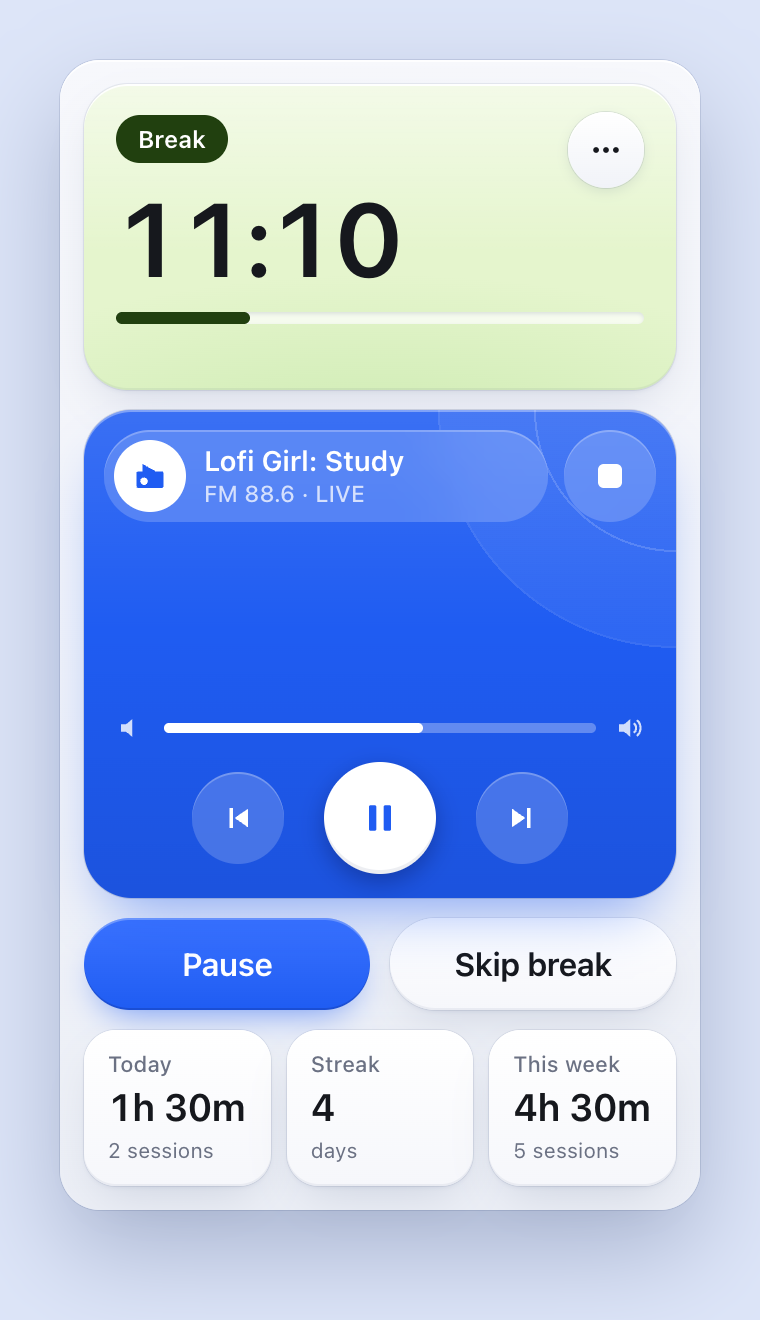
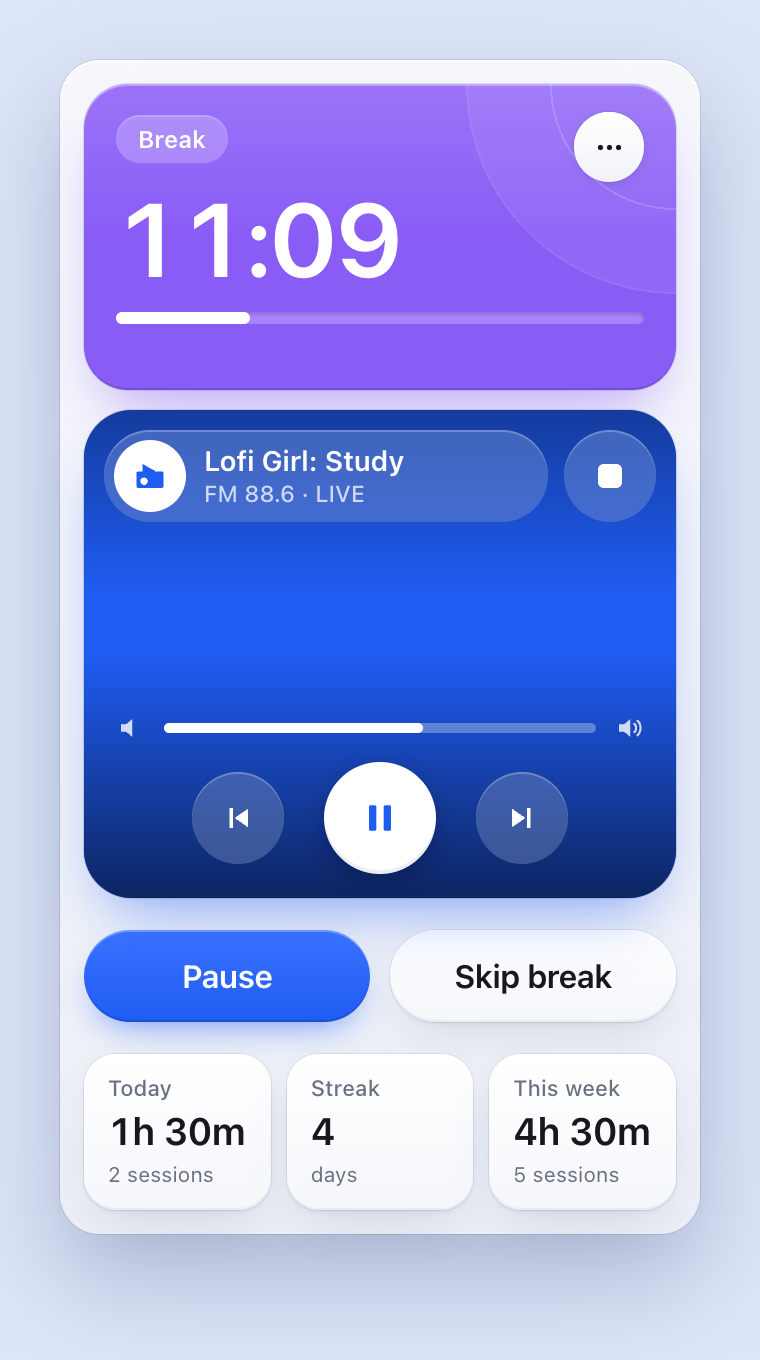
Blue ringed clock card, station cover art, theme switch in the menu
- Light mode: the clock card is bright blue (purple on a break) with the rings in its corner
- The radio card shows the station's cover art until the video plays
- Menu gets a Theme button: match the Mac, light or dark, saved by the app and applied to every window

diff --git a/src/panel.html b/src/panel.html
@@ -38,6 +38,18 @@ body.preview .panel{border-radius:20px;box-shadow:inset 0 1px 0 rgba(255,255,255
   background-image:var(--sheen),radial-gradient(120% 90% at 50% 125%,rgba(var(--glow),.25),transparent 70%)}
 .running .timecard{background-color:var(--pFocus);--tag:var(--tFocus);--glow:58,115,255}
 .break .timecard,.breakPaused .timecard{background-color:var(--pBreak);--tag:var(--tBreak);--glow:120,200,80}
+/* the rings from the group card sit in the top right corner, behind the menu button */
+.timecard{background-image:var(--sheen),radial-gradient(circle at 100% 0,transparent 0 62px,rgba(255,255,255,.06) 62px 63px,transparent 63px 104px,rgba(255,255,255,.045) 104px 105px,transparent 105px),radial-gradient(120% 90% at 50% 125%,rgba(var(--glow),.25),transparent 70%)}
+@media (prefers-color-scheme: light){
+  .timecard,.running .timecard{background-color:#1f5cf2;color:#fff;--tag:#fff;box-shadow:inset 0 1px 0 rgba(255,255,255,.35),inset 0 -1px 0 rgba(0,0,40,.15),0 0 0 .5px rgba(20,40,90,.12),0 16px 30px -12px rgba(31,92,242,.6);
+    background-image:linear-gradient(rgba(255,255,255,.14),rgba(255,255,255,0) 50%),radial-gradient(circle at 100% 0,transparent 0 62px,rgba(255,255,255,.16) 62px 63px,transparent 63px 104px,rgba(255,255,255,.12) 104px 105px,transparent 105px),radial-gradient(circle at 100% 0,rgba(255,255,255,.07) 0 104px,transparent 104px)}
+  .break .timecard,.breakPaused .timecard{background-color:#8a5cf6;--tag:#fff;box-shadow:inset 0 1px 0 rgba(255,255,255,.35),inset 0 -1px 0 rgba(0,0,40,.15),0 0 0 .5px rgba(20,40,90,.12),0 16px 30px -12px rgba(138,92,246,.6)}
+  .timecard .state{background:rgba(255,255,255,.22);color:#fff;box-shadow:inset 0 1px 0 rgba(255,255,255,.2)}
+  .timecard .time{color:#fff}
+  .timecard .prog{background:rgba(255,255,255,.25);box-shadow:inset 0 1px 2px rgba(0,0,40,.2)}
+  .timecard .progmeta{color:rgba(255,255,255,.75)}
+  .timecard .progmeta.noted #note{color:#fff}
+}
 .head{display:flex;justify-content:space-between;align-items:flex-start}
 .state{display:inline-flex;align-items:center;background:var(--tag);color:var(--tagInk);border-radius:99px;padding:4px 11px;font-size:12px;font-weight:600}
 .paused .state,.breakPaused .state{animation:pulse 1.4s ease-in-out infinite alternate;will-change:opacity}
@@ -72,17 +84,12 @@ body.preview .panel{border-radius:20px;box-shadow:inset 0 1px 0 rgba(255,255,255
 
 /* the radio: a rounded square; the live video fills it, the controls float on top */
 .player{position:relative;height:244px;border-radius:24px;overflow:hidden;color:#fff;background:var(--player);box-shadow:var(--playerShadow)}
-.cover{position:absolute;inset:0;transition:opacity .6s;
-  background-image:linear-gradient(rgba(255,255,255,.12),rgba(255,255,255,0) 45%,rgba(0,0,40,.1)),
-    radial-gradient(circle at 100% 0,transparent 0 70px,rgba(255,255,255,.16) 70px 71px,transparent 71px 118px,rgba(255,255,255,.12) 118px 119px,transparent 119px),
-    radial-gradient(circle at 100% 0,rgba(255,255,255,.07) 0 118px,transparent 118px)}
-@media (prefers-color-scheme: dark){.cover{background-image:linear-gradient(rgba(255,255,255,.03),rgba(255,255,255,0) 45%),
-  radial-gradient(circle at 100% 0,transparent 0 70px,rgba(255,255,255,.07) 70px 71px,transparent 71px 118px,rgba(255,255,255,.05) 118px 119px,transparent 119px),
-  radial-gradient(120% 80% at 50% 120%,rgba(58,115,255,.25),transparent 70%)}}
+/* the station's cover art (its stream thumbnail), like a music player card; the live video replaces it while playing */
+.cover{position:absolute;inset:0;transition:opacity .6s;background-color:var(--player);background-position:center;background-repeat:no-repeat;background-size:cover,auto 136%}
 .ytbox{position:absolute;inset:0;opacity:0;transition:opacity .6s;background:#000}
 .ytbox iframe{position:absolute;left:50%;top:50%;width:470px;height:264px;transform:translate(-50%,-50%);border:0;pointer-events:none}
-.shade{position:absolute;inset:0;opacity:0;transition:opacity .6s;background:linear-gradient(rgba(0,0,0,.35),transparent 38%,transparent 50%,rgba(0,0,0,.6))}
-.playing .ytbox,.playing .shade{opacity:1}
+.shade{position:absolute;inset:0;background:linear-gradient(rgba(0,0,0,.35),transparent 38%,transparent 50%,rgba(0,0,0,.6))}
+.playing .ytbox{opacity:1}
 .playing .cover{opacity:0}
 .ptop{position:absolute;left:10px;right:10px;top:10px;display:flex;gap:8px}
 .glass{background:rgba(255,255,255,.18);-webkit-backdrop-filter:blur(14px);backdrop-filter:blur(14px);box-shadow:inset 0 1px 0 rgba(255,255,255,.25)}
@@ -158,6 +165,7 @@ body.preview .panel{border-radius:20px;box-shadow:inset 0 1px 0 rgba(255,255,255
       <div class="mlist">
         <button class="icon" id="openLog" type="button" title="Dashboard"><svg viewBox="0 0 24 24" fill="currentColor"><rect x="4" y="11" width="3.4" height="8" rx="1"/><rect x="10.3" y="5" width="3.4" height="14" rx="1"/><rect x="16.6" y="8" width="3.4" height="11" rx="1"/></svg></button>
         <button class="icon" id="openSettings" type="button" title="Settings"><svg viewBox="0 0 24 24" fill="none" stroke="currentColor" stroke-width="2"><circle cx="12" cy="12" r="3"/><path d="M19.4 15a1.7 1.7 0 0 0 .3 1.8l.1.1a2 2 0 1 1-2.8 2.8l-.1-.1a1.7 1.7 0 0 0-1.8-.3 1.7 1.7 0 0 0-1 1.5V21a2 2 0 1 1-4 0v-.1a1.7 1.7 0 0 0-1.1-1.5 1.7 1.7 0 0 0-1.8.3l-.1.1a2 2 0 1 1-2.8-2.8l.1-.1a1.7 1.7 0 0 0 .3-1.8 1.7 1.7 0 0 0-1.5-1H3a2 2 0 1 1 0-4h.1A1.7 1.7 0 0 0 4.6 9a1.7 1.7 0 0 0-.3-1.8l-.1-.1a2 2 0 1 1 2.8-2.8l.1.1a1.7 1.7 0 0 0 1.8.3H9a1.7 1.7 0 0 0 1-1.5V3a2 2 0 1 1 4 0v.1a1.7 1.7 0 0 0 1 1.5 1.7 1.7 0 0 0 1.8-.3l.1-.1a2 2 0 1 1 2.8 2.8l-.1.1a1.7 1.7 0 0 0-.3 1.8V9a1.7 1.7 0 0 0 1.5 1H21a2 2 0 1 1 0 4h-.1a1.7 1.7 0 0 0-1.5 1z"/></svg></button>
+        <button class="icon" id="theme" type="button" title="Theme"></button>
         <button class="icon" id="quit" type="button" title="Quit Focus MN"><svg viewBox="0 0 24 24" fill="none" stroke="currentColor" stroke-width="2.4" stroke-linecap="round"><path d="M12 3.5v8"/><path d="M7 6.3a7.5 7.5 0 1 0 10 0"/></svg></button>
       </div>
     </div>
@@ -540,6 +548,8 @@ function showStation() {
   $('#stSub').textContent = `FM ${st.f.toFixed(1)}${radioOn ? ' · LIVE' : ''}`;
   requestAnimationFrame(() => $('#marq').classList.toggle('scroll', $('#stName').offsetWidth > $('#marq').clientWidth));
   $('#radioBtn').innerHTML = radioOn && !radioPaused ? pauseSvg : playSvg;
+  const id = ytId(st);
+  $('.cover').style.backgroundImage = `url(https://i.ytimg.com/vi/${id}/maxresdefault.jpg), url(https://i.ytimg.com/vi/${id}/hqdefault.jpg)`;
 }
 function tuneTo(i) {
   S.station = (i + STATIONS.length) % STATIONS.length; saveState();
@@ -589,6 +599,14 @@ $('#gear').onclick = e => { e.stopPropagation(); menu(!$('#menu').classList.cont
 $('#openSettings').onclick = () => { menu(false); native({type: 'openDashboard', tab: 'settings'}); };
 $('#openLog').onclick = () => { menu(false); native({type: 'openDashboard', tab: 'stats'}); };
 $('#quit').onclick = () => native({type: 'quit'});
+// Theme: follow the Mac, or always light, or always dark. The app applies it to every window.
+const THEMES = {system: ['Match the Mac', '<svg viewBox="0 0 24 24"><circle cx="12" cy="12" r="8.5" fill="none" stroke="currentColor" stroke-width="2.2"/><path d="M12 3.5a8.5 8.5 0 0 1 0 17z" fill="currentColor"/></svg>'],
+  light: ['Light', '<svg viewBox="0 0 24 24" fill="none" stroke="currentColor" stroke-width="2.2" stroke-linecap="round"><circle cx="12" cy="12" r="4" fill="currentColor"/><path d="M12 2.5v2.2M12 19.3v2.2M2.5 12h2.2M19.3 12h2.2M5.3 5.3l1.6 1.6M17.1 17.1l1.6 1.6M5.3 18.7l1.6-1.6M17.1 6.9l1.6-1.6"/></svg>'],
+  dark: ['Dark', '<svg viewBox="0 0 24 24" fill="currentColor"><path d="M20 14.5A8.5 8.5 0 0 1 9.5 4a8.5 8.5 0 1 0 10.5 10.5z"/></svg>']};
+let theme = THEMES[window.__THEME] ? window.__THEME : 'system';
+function drawTheme() { $('#theme').innerHTML = THEMES[theme][1]; $('#theme').title = `Theme: ${THEMES[theme][0]}`; }
+$('#theme').onclick = () => { const k = Object.keys(THEMES); theme = k[(k.indexOf(theme) + 1) % k.length]; drawTheme(); native({type: 'theme', value: theme}); };
+drawTheme();
 addEventListener('click', e => { if (!e.target.closest('#menu')) menu(false); });
 addEventListener('keydown', e => {
   if (e.target.tagName === 'INPUT') return;

diff --git a/src/main.swift b/src/main.swift
@@ -65,6 +65,7 @@ final class AppDelegate: NSObject, NSApplicationDelegate, NSWindowDelegate, WKSc
         try? FileManager.default.createDirectory(at: stateDir, withIntermediateDirectories: true)
         try? FileManager.default.createDirectory(at: logDir, withIntermediateDirectories: true)
         buildMainMenu()
+        applyTheme()
         // The timer runs in the panel's page, which is hidden most of the time: keep macOS from napping the app.
         activity = ProcessInfo.processInfo.beginActivity(options: .userInitiatedAllowingIdleSystemSleep, reason: "Focus timer")
         buildPanel()
@@ -91,7 +92,7 @@ final class AppDelegate: NSObject, NSApplicationDelegate, NSWindowDelegate, WKSc
         let json = String(data: try! JSONSerialization.data(withJSONObject: saved), encoding: .utf8)!
         let content = WKUserContentController()
         content.add(self, name: "native")
-        content.addUserScript(WKUserScript(source: "window.__NATIVE = true; window.__STORE = \(json); \(extra)",
+        content.addUserScript(WKUserScript(source: "window.__NATIVE = true; window.__STORE = \(json); window.__THEME = \(self.json(theme)); \(extra)",
                                            injectionTime: .atDocumentStart, forMainFrameOnly: true))
         let config = WKWebViewConfiguration()
         config.userContentController = content
@@ -99,6 +100,12 @@ final class AppDelegate: NSObject, NSApplicationDelegate, NSWindowDelegate, WKSc
         // Keep pages running while their window is hidden, so the timer and radio don't stop when the panel closes.
         if #available(macOS 14.0, *) { config.preferences.inactiveSchedulingPolicy = .none }
         return config
+    }
+
+    // Theme: "system" follows the Mac; "light" or "dark" fixes every window of the app.
+    var theme: String { UserDefaults.standard.string(forKey: "theme") ?? "system" }
+    func applyTheme() {
+        NSApp.appearance = theme == "light" ? NSAppearance(named: .aqua) : theme == "dark" ? NSAppearance(named: .darkAqua) : nil
     }
 
     func loadPage(_ name: String, into view: WKWebView) {
@@ -315,6 +322,11 @@ final class AppDelegate: NSObject, NSApplicationDelegate, NSWindowDelegate, WKSc
             }
         case "openDashboard":
             openDashboard(tab: body["tab"] as? String ?? "stats")
+        case "theme":
+            if let value = body["value"] as? String, ["system", "light", "dark"].contains(value) {
+                UserDefaults.standard.set(value, forKey: "theme")
+                applyTheme()
+            }
         case "quit":
             NSApp.terminate(nil)
         case "copy":

diff --git a/CONTRIBUTING.md b/CONTRIBUTING.md
@@ -28,11 +28,11 @@
 
 ## Timer rules
 
-- Look: light mode is a soft blue-grey with pastel cards (cream when ready, blue while focusing, green on a break) and blue accents (`#1f5cf2`); dark mode is near-black (`#161616`) with a soft glow of the state's colour. Both use the same bevel: a lit top edge, a soft lower edge and a shadow below each card. Big numbers use the rounded system font (`ui-rounded`).
+- Look: light mode is a soft blue-grey; the clock card is bright blue (`#1f5cf2`, purple on a break) with rings in the corner. Dark mode is near-black (`#161616`), the clock card black with a soft glow of the state's colour. The radio card shows the station's cover art (its YouTube thumbnail) until the live video plays. Both use the same bevel: a lit top edge, a soft lower edge and a shadow below each card. Big numbers use the rounded system font (`ui-rounded`).
 - Clicking the time cycles count up → Pomodoro 30 → 60 → 90. Breaks: 5, 15 and 20 minutes (`BREAK_FOR`); a break started from count up is 5 minutes. Naming: **the Island** is the black box with the blue card under the notch; **notifications** are macOS's own (the idle nudge, updates).
 - Buttons by state: idle *Start Focus*; focusing *Pause*; paused *Resume, End focus*; break *Pause, Skip break*; break paused *Resume, Start Focus*. There is no manual break: breaks aren't logged, so ending focus and starting again later does the same. A break is only offered after a finished Pomodoro block.
 - Buttons sit side by side (`.duo`): the main action solid blue, a second one a raised pill.
-- Short notes ("Under 1 min, so not logged.") replace the line under the clock for a few seconds (`say()`). Dashboard, Settings and Quit are in the round-button menu at the top right of the timer card.
+- Short notes ("Under 1 min, so not logged.") replace the line under the clock for a few seconds (`say()`). Dashboard, Settings, Theme and Quit are in the round-button menu at the top right of the timer card. Theme cycles Match the Mac → Light → Dark; the app saves it (`theme` in UserDefaults) and sets `NSApp.appearance`, so every window follows.
 - A finished block asks *Log it / Keep going*. Log it asks the topic, then *Take break / Start Focus*. Keep going adds a 30-minute block, logged as one session with the first; ending it early asks *Log it / Keep going* again.
 - Ending a Pomodoro early isn't logged; count-up under a minute isn't logged; breaks aren't logged. A finished break asks *Start Focus / +5 min*.
 - A session running when the app quits comes back paused, counting time up to the last save.

diff --git a/README.md b/README.md
@@ -45,7 +45,7 @@ A focus timer and lofi radio that lives in your Mac's menu bar. Click the time i
    xattr -cr "/Applications/Focus MN.app"
    ```
 
-Focus MN has no Dock icon: look for the timer icon in the menu bar. Right-click it for a small menu (Dashboard, Settings, Check for Updates, Quit); in the panel, the round button at the top right opens Dashboard, Settings and Quit.
+Focus MN has no Dock icon: look for the timer icon in the menu bar. Right-click it for a small menu (Dashboard, Settings, Check for Updates, Quit); in the panel, the round button at the top right opens Dashboard, Settings, the theme (match the Mac, light or dark) and Quit.
 
 ## Updates
 
